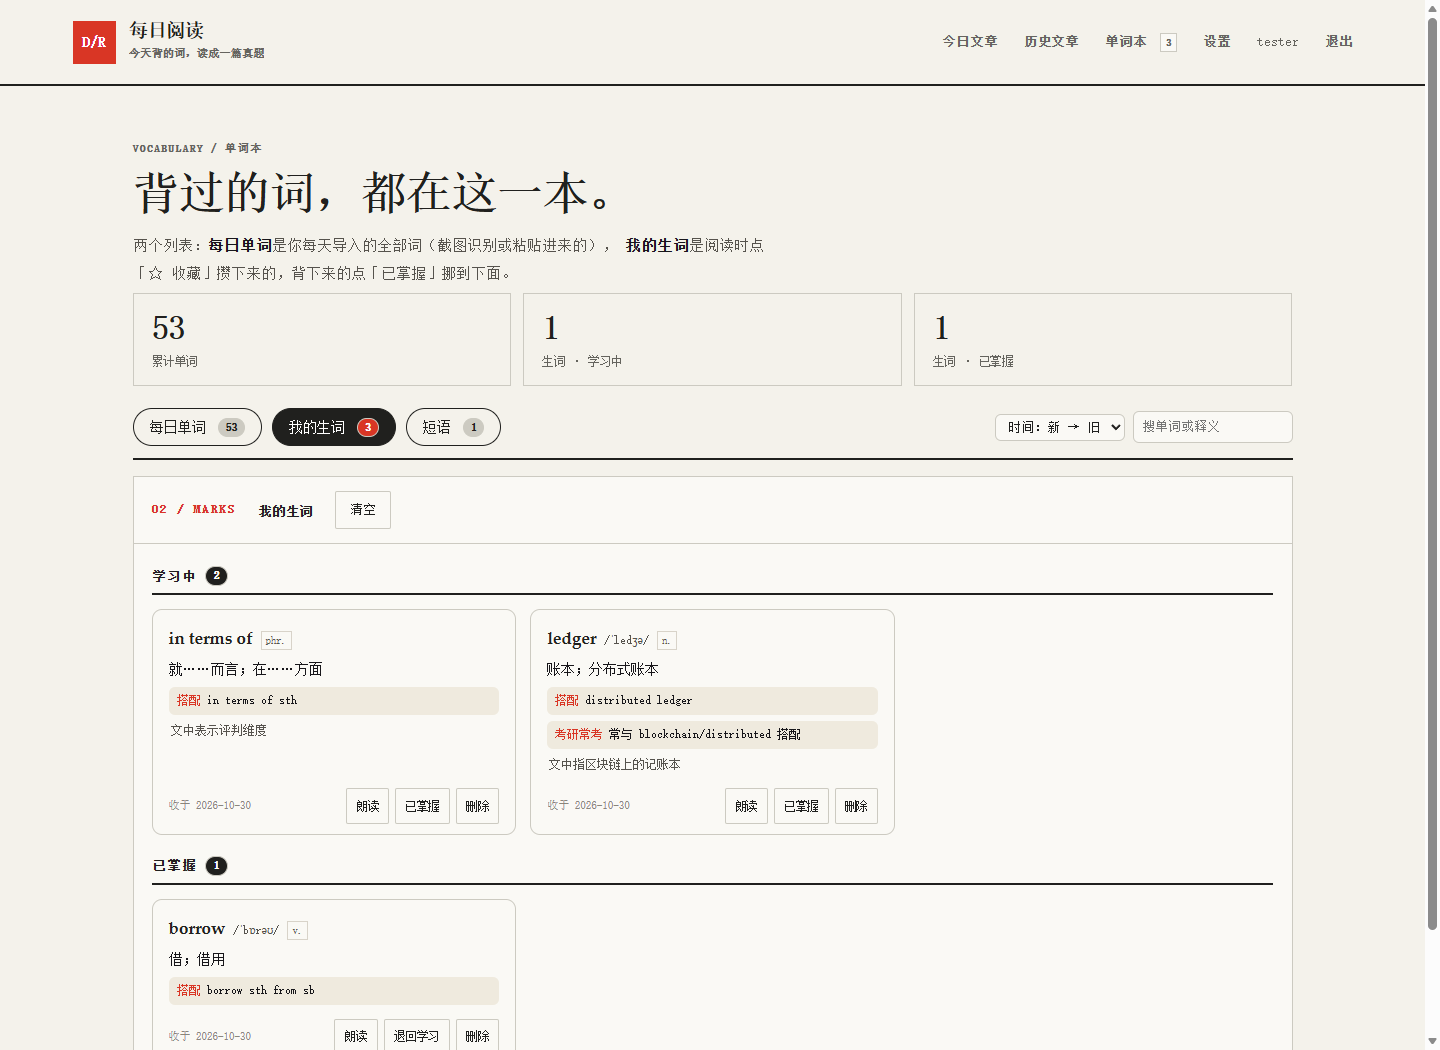
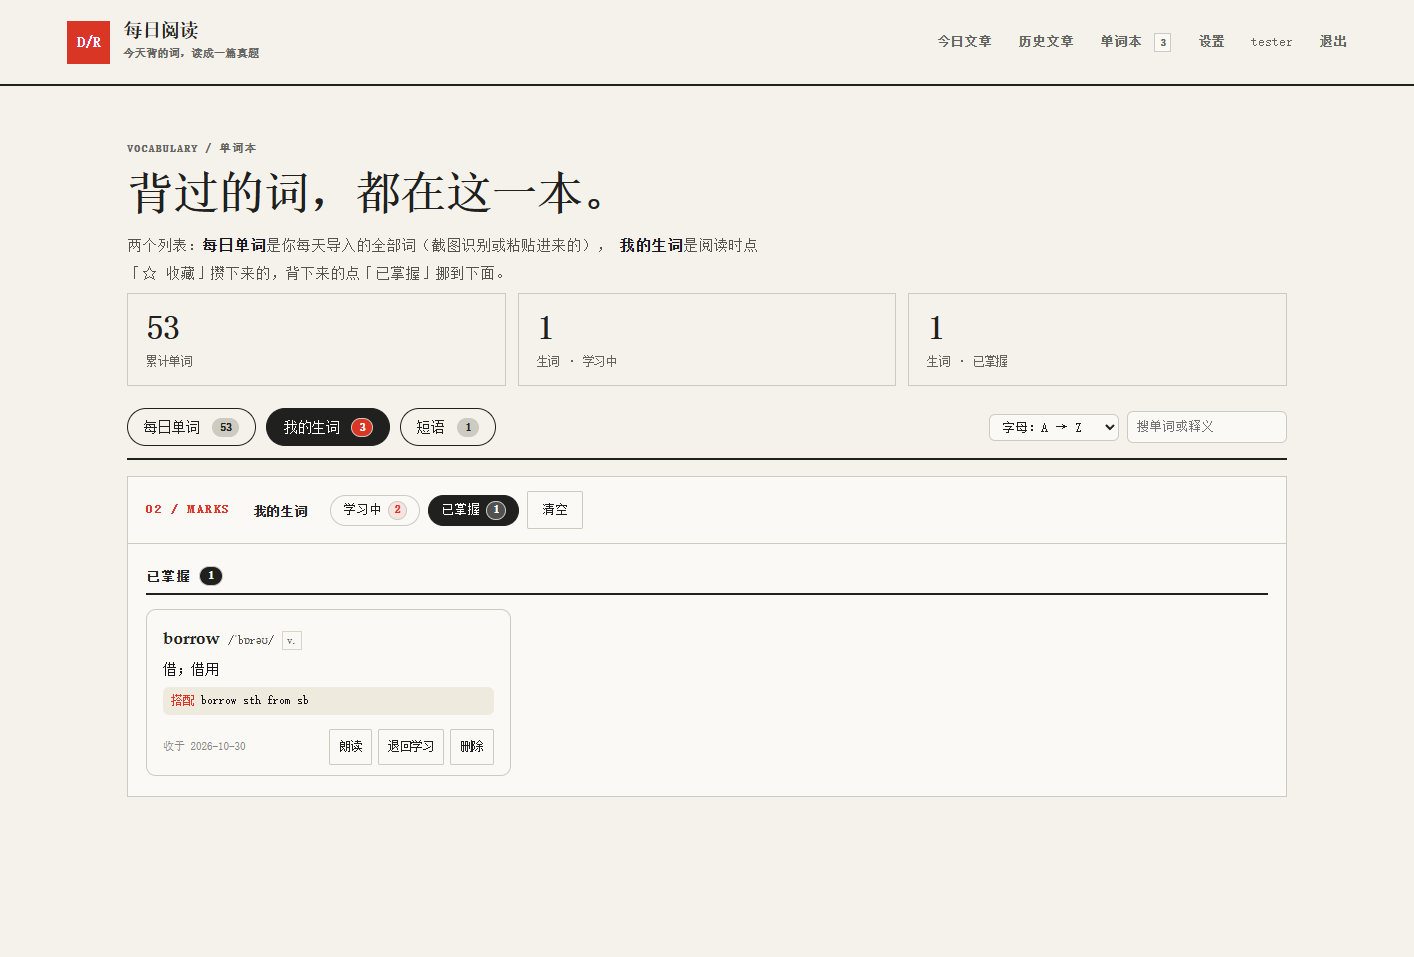
feat: 我的生词加「学习中 / 已掌握」快捷切换，两摞各自记排序
- 面板标题右边两个药丸按钮，带数量，点哪个只看哪一摞
- 排序下拉对当前视图生效，并按视图分别记忆（marks:learning / marks:mastered）
- 在「每日单词 / 我的生词 / 短语」之间来回切，排序也跟着回来
- 使用说明同步

diff --git a/src/main/resources/static/js/vocab.js b/src/main/resources/static/js/vocab.js
@@ -16,12 +16,24 @@ const phraseList = $('#phraseList');
 const tabPhraseCount = $('#tabPhraseCount');
   const sortSel = $('#vocabSort');
   const searchInput = $('#vocabSearch');
+  const mkSwitch = $('#mkSwitch');
+  const mkCountLearning = $('#mkCountLearning');
+  const mkCountMastered = $('#mkCountMastered');
 
   const esc = (s) => String(s == null ? '' : s).replace(/[&<>"']/g, (c) => (
     { '&': '&amp;', '<': '&lt;', '>': '&gt;', '"': '&quot;', "'": '&#39;' }[c]
   ));
 
   let allDays = [];
+  // 我的生词：两个快捷视图（学习中 / 已掌握），各自记一份排序
+  let mkView = 'learning';
+  let activeTab = 'daily';
+  const sortMemory = { daily: 'time-desc', 'marks:learning': 'time-desc', 'marks:mastered': 'time-desc', phrases: 'time-desc' };
+  const sortSlot = () => (activeTab === 'daily' ? 'daily' : activeTab === 'phrases' ? 'phrases' : 'marks:' + mkView);
+  const currentSort = () => (sortSel && sortSel.value) || sortMemory[sortSlot()] || 'time-desc';
+  function syncSortUi() {
+    if (sortSel) sortSel.value = sortMemory[sortSlot()] || 'time-desc';
+  }
   let allMarks = [];
   let toastTimer = null;
   function toast(msg, isError) {
@@ -90,17 +102,19 @@ const tabPhraseCount = $('#tabPhraseCount');
     const pick = (st) => marks.filter((m) => (m.status === 'mastered') === st);
     const learningList = pick(false);
     const masteredList = pick(true);
+    if (mkCountLearning) mkCountLearning.textContent = learningList.length;
+    if (mkCountMastered) mkCountMastered.textContent = masteredList.length;
 
-    let html = '';
-    if (learningList.length) {
-      html += `<h3 class="mk-sec">学习中 <span class="count">${learningList.length}</span></h3>`;
-      html += learningList.map(card).join('');
+    const shown = mkView === 'mastered' ? masteredList : learningList;
+    const label = mkView === 'mastered' ? '已掌握' : '学习中';
+    if (!shown.length) {
+      list.innerHTML = `<p class="empty-hint">${label}里还没有词。</p>`;
+      renderPhrases(marks);
+      return;
     }
-    if (masteredList.length) {
-      html += `<h3 class="mk-sec">已掌握 <span class="count">${masteredList.length}</span></h3>`;
-      html += masteredList.map(card).join('');
-    }
-    list.innerHTML = html;
+    list.innerHTML =
+      `<h3 class="mk-sec">${label} <span class="count">${shown.length}</span></h3>` +
+      shown.map(card).join('');
 
     renderPhrases(marks);
   }
@@ -215,7 +229,7 @@ const tabPhraseCount = $('#tabPhraseCount');
   /// 排序 + 搜索都在前端做：一个人导入过的词，几千条以内完全够用
   function paintDays() {
     const q = (searchInput && searchInput.value ? searchInput.value : '').trim().toLowerCase();
-    const mode = sortSel ? sortSel.value : 'time-desc';
+    const mode = currentSort();
 
     let days = allDays.map((d) => ({
       ...d,
@@ -248,7 +262,21 @@ const tabPhraseCount = $('#tabPhraseCount');
     dailyPanel.hidden = name !== 'daily';
     markPanel.hidden = name !== 'mine';
     phrasePanel.hidden = name !== 'phrases';
+    activeTab = name;
+    syncSortUi();
   }
+
+  // 学习中 / 已掌握 快捷切换：每个视图各自记排序
+  document.querySelectorAll('[data-mkview]').forEach((b) => {
+    b.addEventListener('click', () => {
+      mkView = b.dataset.mkview;
+      document.querySelectorAll('[data-mkview]').forEach((x) => {
+        x.classList.toggle('is-on', x === b);
+      });
+      syncSortUi();
+      paintMarks();
+    });
+  });
 
   document.querySelectorAll('.vtab').forEach((b) => {
     b.addEventListener('click', () => switchTab(b.dataset.tab));
@@ -259,7 +287,7 @@ const tabPhraseCount = $('#tabPhraseCount');
   }
 
   function sortList(items, key) {
-    const mode = sortSel ? sortSel.value : 'time-desc';
+    const mode = currentSort();
     const arr = items.slice();
     if (mode === 'alpha') {
       arr.sort((a, b) => String(a[key]).localeCompare(String(b[key]), 'en'));
@@ -293,7 +321,12 @@ const tabPhraseCount = $('#tabPhraseCount');
     paintPhrases();
   }
 
-  if (sortSel) sortSel.addEventListener('change', paintAll);
+  if (sortSel) {
+    sortSel.addEventListener('change', () => {
+      sortMemory[sortSlot()] = sortSel.value;
+      paintAll();
+    });
+  }
   if (searchInput) searchInput.addEventListener('input', paintAll);
 
   async function load() {

diff --git a/src/main/resources/static/css/bauhaus.css b/src/main/resources/static/css/bauhaus.css
@@ -1824,3 +1824,19 @@ main .settings-panel .settings-note { margin: 0 0 16px; }
 .vocab-main .mark-cards { gap: 14px; }
 /* 生词页的「学习中 / 已掌握」小节标题也别顶边 */
 .vocab-main .mk-sec-head { padding: 0 0 2px; }
+
+/* ---------- 我的生词：学习中 / 已掌握 快捷切换 ---------- */
+.mk-switch { gap: 6px; }
+.mk-tab {
+  display: inline-flex; align-items: center; gap: 6px;
+  border: 1px solid var(--grid); background: transparent; border-radius: 999px;
+  padding: 4px 12px; font: inherit; font-size: 12.5px; color: var(--ink);
+  cursor: pointer; white-space: nowrap;
+}
+.mk-tab:hover { border-color: var(--ink-soft); }
+.mk-tab .count {
+  background: var(--accent-soft); color: var(--accent);
+  border-radius: 999px; padding: 0 6px; font-size: 11px; line-height: 1.5;
+}
+.mk-tab.is-on { background: var(--solid); color: var(--solid-fg); border-color: var(--solid); }
+.mk-tab.is-on .count { background: rgba(255, 255, 255, .22); color: var(--solid-fg); }

diff --git a/src/main/resources/templates/vocab.html b/src/main/resources/templates/vocab.html
@@ -95,7 +95,13 @@
     <div class="panel-head">
       <div class="panel-code">02 / marks</div>
       <h2>我的生词</h2>
-      <div class="panel-tools">
+      <div class="panel-tools mk-switch" id="mkSwitch">
+        <button class="mk-tab is-on" type="button" data-mkview="learning" role="tab">
+          学习中 <span class="count" id="mkCountLearning">0</span>
+        </button>
+        <button class="mk-tab" type="button" data-mkview="mastered" role="tab">
+          已掌握 <span class="count" id="mkCountMastered">0</span>
+        </button>
         <button class="btn ghost" id="btnClearAll" type="button">清空</button>
       </div>
     </div>

diff --git a/docs/使用说明.md b/docs/使用说明.md
@@ -98,7 +98,9 @@ java -jar target\daily-reading-0.1.0.jar
 分两个列表：
 
 - **每日单词**：按天分组，每张卡是词 + 音标 + 词性 + 词典释义，就是你导入过的全部词
-- **我的生词**：读文章时收藏的，分「学习中 / 已掌握」两摞，背下来的点「已掌握」挪下去，随时能退回
+- **我的生词**：读文章时收藏的。标题右边有「学习中 / 已掌握」两个按钮，点哪个就看哪一摞；
+  两个按钮各自记着自己的排序方式（比如「学习中」按时间新→旧、「已掌握」按字母 A→Z），
+  切来切去不会互相覆盖。背下来的词点「已掌握」挪到另一摞，随时能退回
 
 ## 6. 历史文章
 
